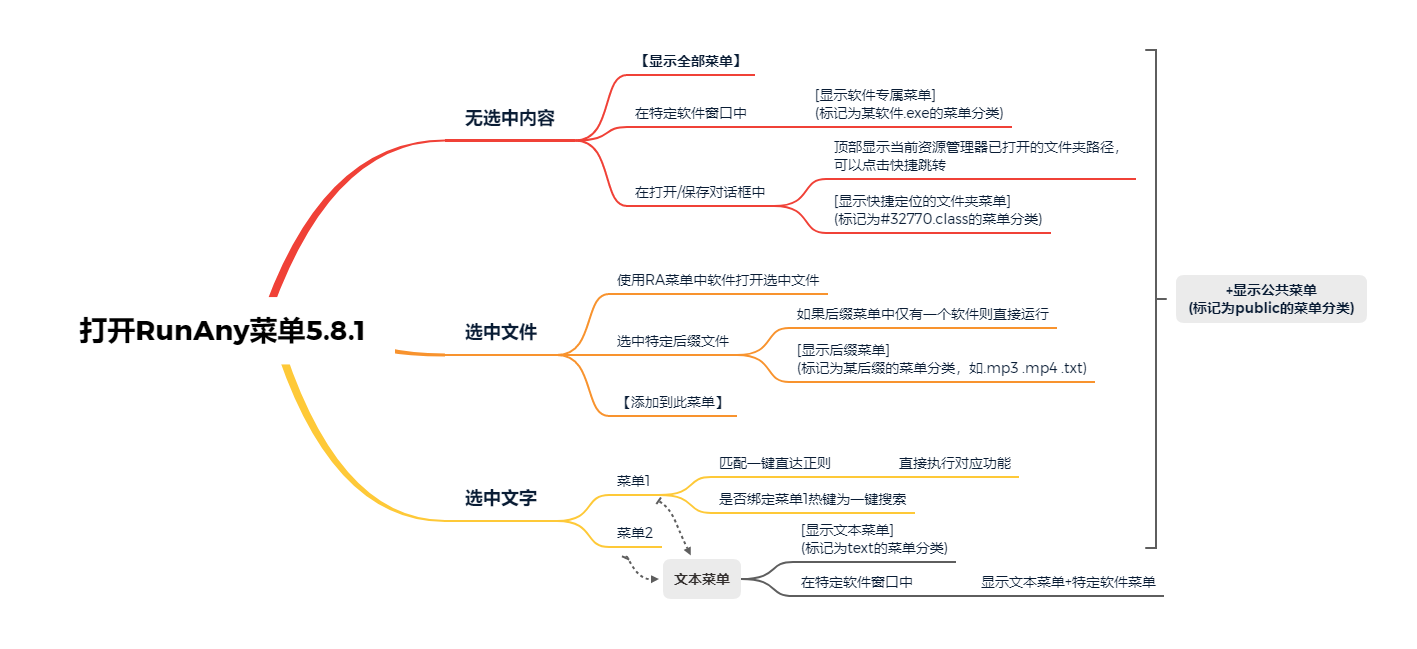
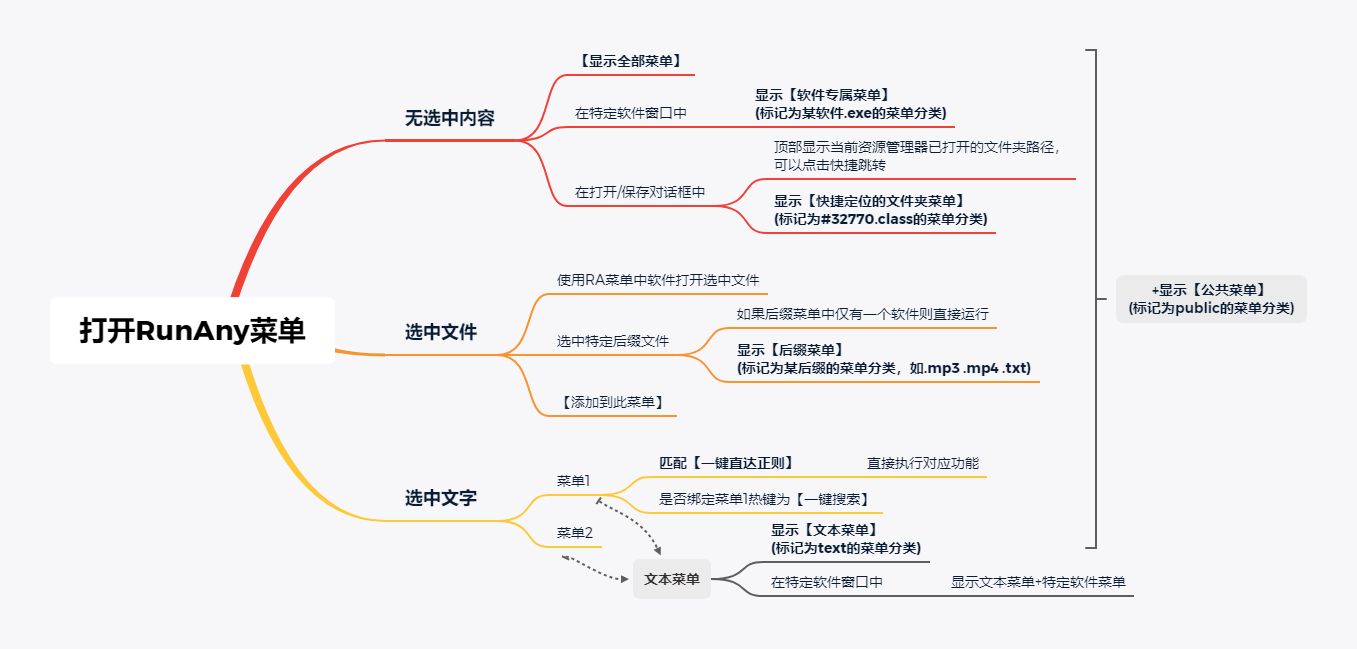
增加RunAny思维导图

diff --git a/CONFIG.md b/CONFIG.md
@@ -1,3 +1,5 @@
+![RunAny运行类型图](/assets/images/RunAny运行类型图.png)
+
 ## 【自定义树形菜单配置方法】
 
 #### **首次使用请阅读：**
